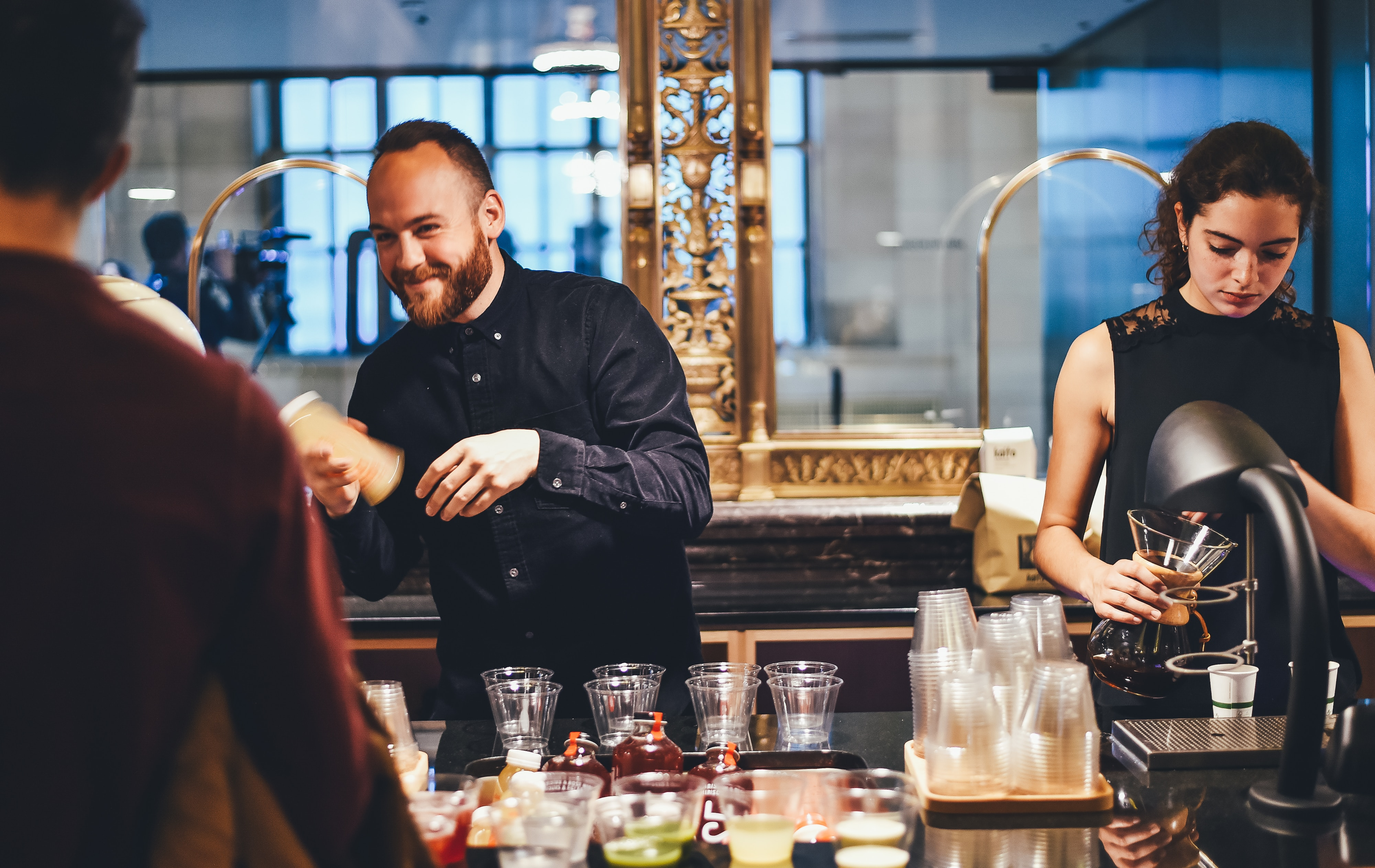
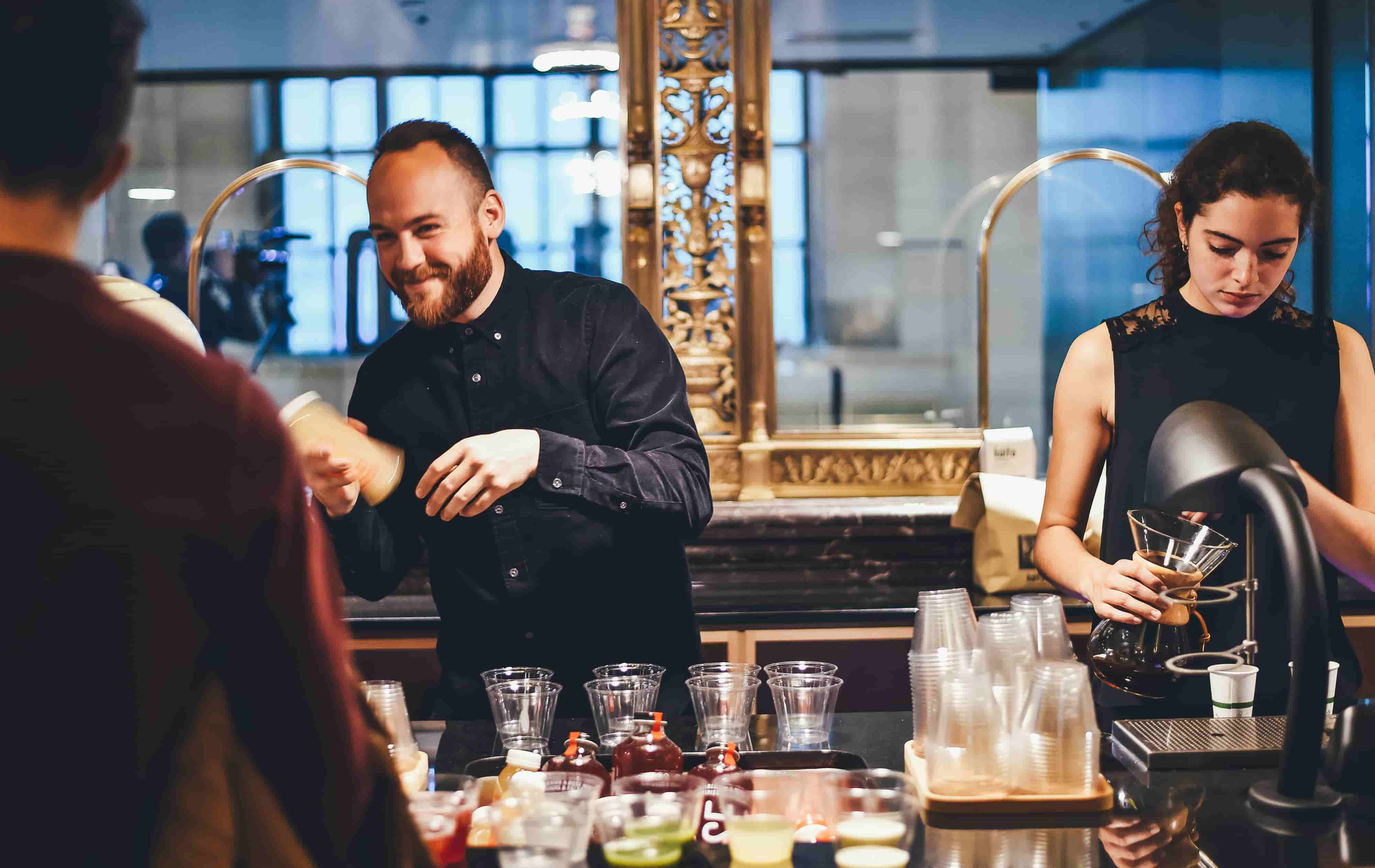
copmressed images

diff --git a/src/assets/index.ts b/src/assets/index.ts
@@ -18,7 +18,6 @@ import dailySpecial from "./images/daily-special.jpg";
 import exterior from "./images/exterior.jpg";
 import seating from "./images/seating.jpg";
 import eating from "./images/eating.jpg";
-import waiter from "./images/waiter.jpg";
 import barStaff from "./images/bar-staff.jpg";
 import kitchenStaff from "./images/kitchen-staff.jpg";
 import owner1 from "./images/owner1.jpg";
@@ -45,7 +44,6 @@ export {
   exterior,
   seating,
   eating,
-  waiter,
   barStaff,
   kitchenStaff,
   owner1,

diff --git a/src/pages/About/AboutPage.tsx b/src/pages/About/AboutPage.tsx
@@ -2,6 +2,8 @@ import { Gallery, Divider } from "../../components";
 import { chefFire, barStaff, kitchenStaff, owner1, owner2 } from "../../assets";
 import { imageType } from "../../components";
 
+//TODO: GOOGLE MAPS, LAZY LOAD, compress images to 200kb
+
 const AboutPage = () => {
   const founderImages: imageType[] = [
     { image: owner1 },

diff --git a/src/pages/Home/components/Welcome/Welcome.tsx b/src/pages/Home/components/Welcome/Welcome.tsx
@@ -7,6 +7,7 @@ const Welcome = () => {
   return (
     <section id="welcome" className="relative h-screen w-full overflow-hidden">
       <img
+        loading="lazy"
         src={backgroundImage}
         alt="food1"
         className="breath h-full w-full object-cover brightness-[.3] 
